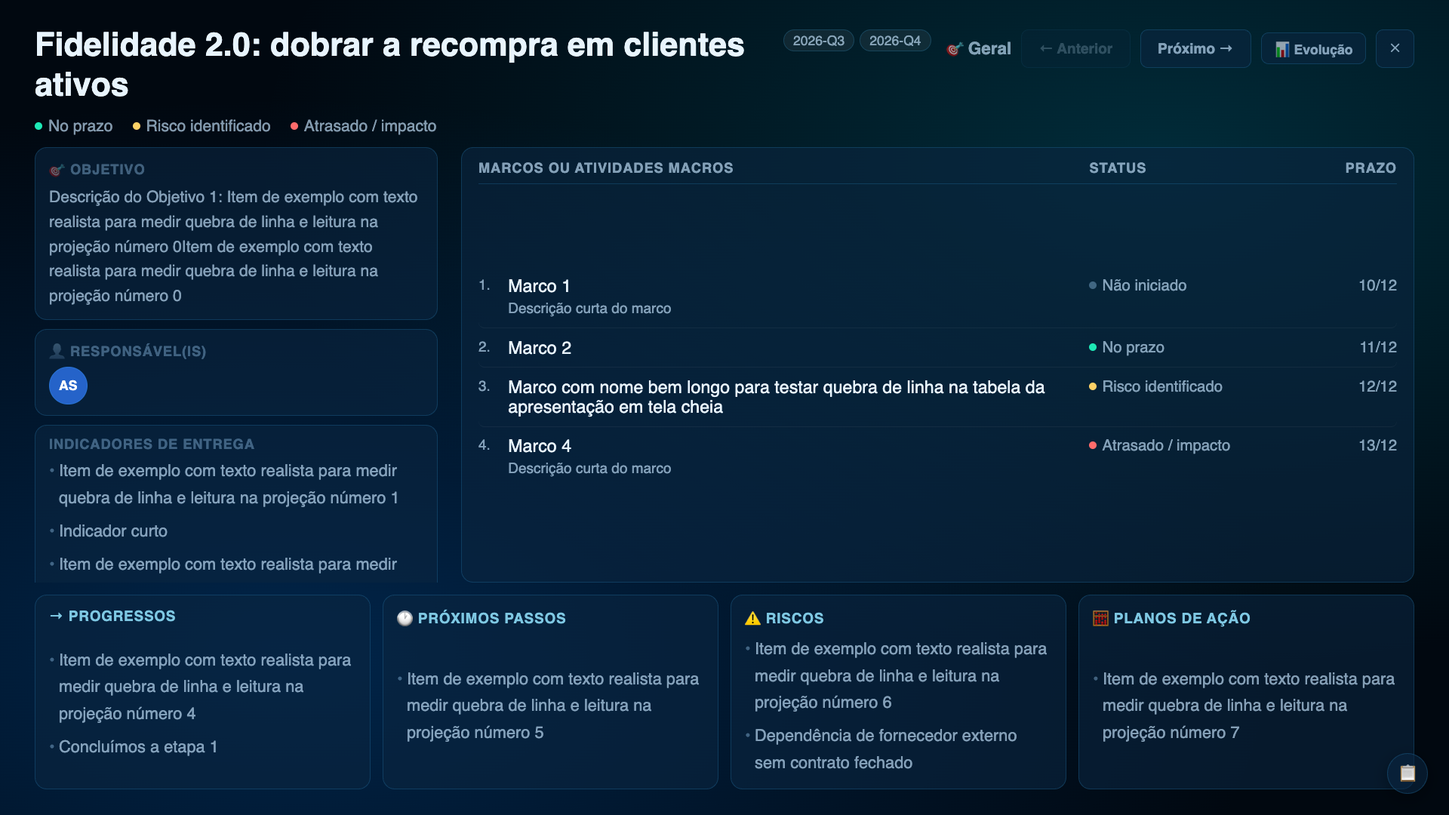
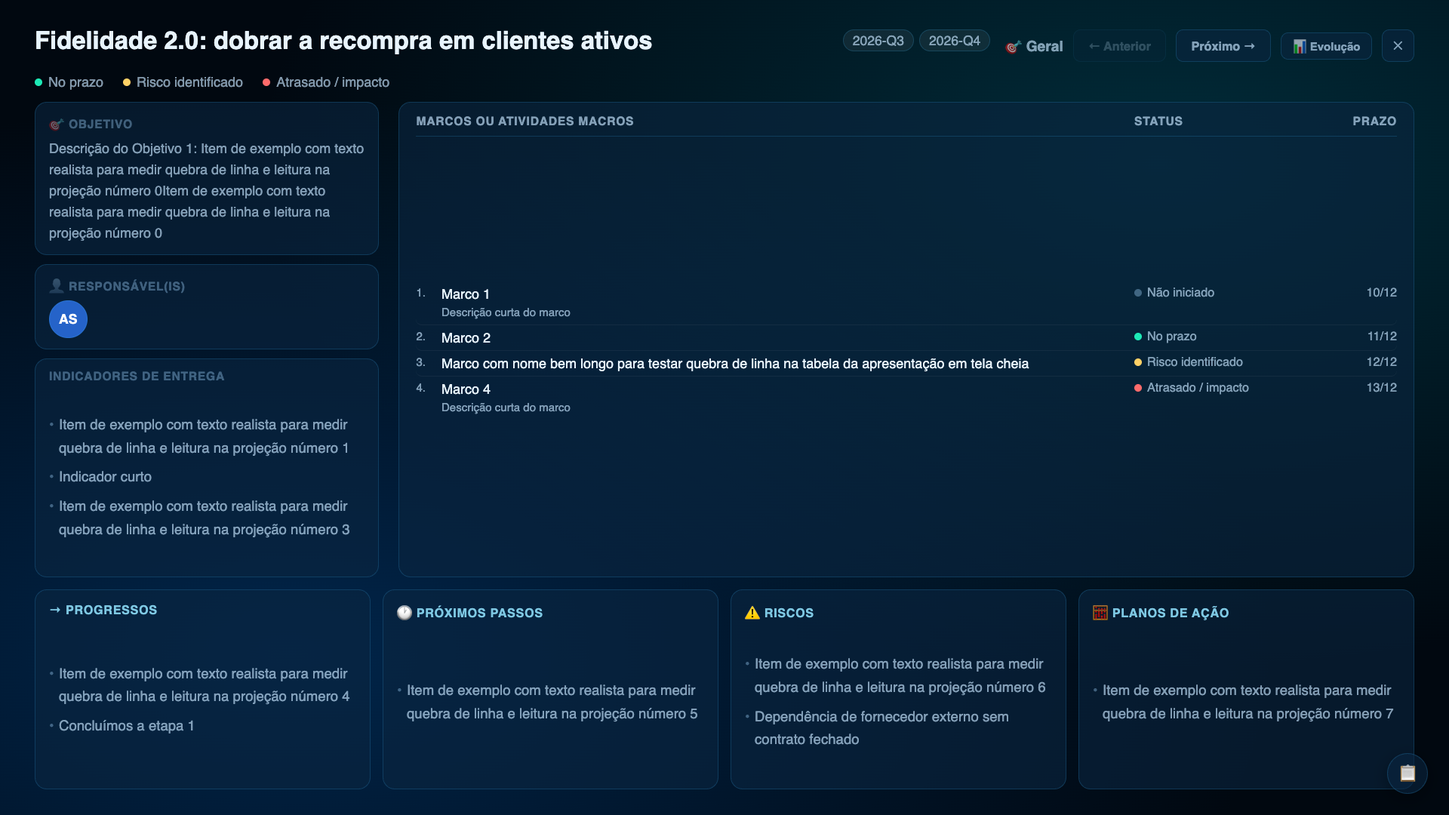
Apresentação do Radar: corrige regressões apontadas na revisão (detalhe sem rolagem, ao vivo sem animação infinita, gerência cheia compacta)
- detalhe usa unidade própria --ud (mais contida): em Full HD nada fica atrás de rolagem, como na main
- anel da pílula ao vivo pulsa 3x e para (animação infinita mantinha 60 quadros/s ao vivo)
- gerência com 6+ Objetivos em modo compacto (4 colunas), texto >= main em 3/10/14
- teste e medições cobrem sessão ao vivo, estouro interno e gerência cheia

Agent: claude

diff --git a/okr-apresentacao.slide.html b/okr-apresentacao.slide.html
@@ -15,6 +15,7 @@
   --blue:#2563c9; --accent:#38b6ff; --cyan:#7ec8e3; --teal:#1de9b6;
   --txt:#e8f4fd; --txt2:rgba(200,230,255,0.65); --txt3:rgba(150,200,240,0.4);
   --warn:#ffd166; --danger:#ff6b6b;
+  --ud:clamp(1px,.0625vw,1.2px);   /* mesma ideia, mais contida: o detalhe do Objetivo é denso (raia + marcos + 4 colunas) e precisa caber SEM rolagem */
   --u:clamp(1px,.0732vw,1.5px);   /* unidade de tela: 1px em notebook, ~1,4px em Full HD, teto 1,5px — todo tamanho de leitura usa calc(N*var(--u)) */
 }
 *{margin:0;padding:0;box-sizing:border-box;}
@@ -216,6 +217,15 @@ h1,h2,h3,.syne{font-family:'Syne',sans-serif;}
 .obj-tags{display:flex;flex-wrap:wrap;gap:7px;margin-bottom:calc(14*var(--u));}
 .tag-chip{font-size:calc(13.5*var(--u));border-radius:999px;padding:3px 14px;border:1px solid;}
 .obj-bottom{display:flex;justify-content:flex-end;margin-top:auto;padding-top:calc(6*var(--u));}
+/* Gerência cheia (6+ Objetivos): 4 colunas e cartão enxuto — sem isso a página encolhe tudo para caber e o texto fica menor que antes. */
+.obj-grid.denso{grid-template-columns:repeat(auto-fill,minmax(calc(270*var(--u)),1fr));gap:calc(14*var(--u));}
+.obj-grid.denso .obj-card{padding:calc(12*var(--u)) calc(16*var(--u));border-radius:calc(16*var(--u));}
+.obj-grid.denso .obj-top{margin-bottom:calc(7*var(--u));}
+.obj-grid.denso .obj-title{font-size:calc(21*var(--u));}
+.obj-grid.denso .prog-row{margin:calc(6*var(--u)) 0 calc(5*var(--u));gap:calc(12*var(--u));}
+.obj-grid.denso .prog-pct{font-size:calc(30*var(--u));min-width:calc(68*var(--u));}
+.obj-grid.denso .obj-tags{margin-bottom:calc(6*var(--u));}
+.obj-grid.denso .avatar{width:calc(30*var(--u));height:calc(30*var(--u));font-size:calc(11.5*var(--u));}
 .avatar{width:calc(36*var(--u));height:calc(36*var(--u));border-radius:50%;border:1px solid var(--glass-b);background:var(--blue);
   display:flex;align-items:center;justify-content:center;font-size:calc(12.5*var(--u));font-weight:700;color:#fff;margin-left:-9px;overflow:hidden;}
 .avatar:first-child{margin-left:0;}
@@ -266,13 +276,13 @@ h1,h2,h3,.syne{font-family:'Syne',sans-serif;}
 /* Header em grid real (não position:fixed) — título, trimestre e marca/fechar
    nunca se sobrepõem porque cada um tem sua própria coluna garantida. */
 .d2-header{display:grid;grid-template-columns:1fr auto auto;align-items:start;gap:20px;flex-shrink:0;}
-.d2-title{font-family:'Syne',sans-serif;font-weight:800;font-size:clamp(1.4rem,2.5vw,2.7rem);line-height:1.22;
+.d2-title{font-family:'Syne',sans-serif;font-weight:800;font-size:clamp(1.4rem,2.2vw,2.05rem);line-height:1.22;
   min-width:0;overflow-wrap:break-word;}
-.d2-trim{display:flex;gap:7px;flex-wrap:wrap;align-content:flex-start;justify-content:flex-end;padding-top:5px;max-width:calc(210*var(--u));}
+.d2-trim{display:flex;gap:7px;flex-wrap:wrap;align-content:flex-start;justify-content:flex-end;padding-top:5px;max-width:calc(210*var(--ud));}
 .d2-brand-row{display:flex;align-items:center;gap:13px;padding-top:5px;}
-.d2-brand{font-family:'Syne',sans-serif;font-weight:800;font-size:calc(16*var(--u));color:var(--txt2);white-space:nowrap;
+.d2-brand{font-family:'Syne',sans-serif;font-weight:800;font-size:calc(16*var(--ud));color:var(--txt2);white-space:nowrap;
   display:flex;align-items:center;gap:8px;}
-.detail-close{background:var(--glass);border:1px solid var(--glass-b);border-radius:10px;width:calc(36*var(--u));height:calc(36*var(--u));
+.detail-close{background:var(--glass);border:1px solid var(--glass-b);border-radius:10px;width:calc(36*var(--ud));height:calc(36*var(--ud));
   color:var(--txt2);font-size:16px;cursor:pointer;flex-shrink:0;}
 .detail-close:hover{background:var(--glass-hover);}
 /* Botão de avançar pro próximo Objetivo DENTRO da mesma gerência (pedido
@@ -280,14 +290,14 @@ h1,h2,h3,.syne{font-family:'Syne',sans-serif;}
    gerencia" — nunca cruza pra outra gerência sozinho). Fica desabilitado no
    último Objetivo da gerência em vez de sumir, pra deixar claro que acabou
    (em vez de parecer que travou). */
-.detail-next{background:var(--glass);border:1px solid var(--glass-b);border-radius:10px;height:calc(36*var(--u));padding:0 calc(16*var(--u));
-  color:var(--txt2);font-size:calc(13.5*var(--u));font-weight:700;cursor:pointer;flex-shrink:0;white-space:nowrap;
+.detail-next{background:var(--glass);border:1px solid var(--glass-b);border-radius:10px;height:calc(36*var(--ud));padding:0 calc(16*var(--ud));
+  color:var(--txt2);font-size:calc(13.5*var(--ud));font-weight:700;cursor:pointer;flex-shrink:0;white-space:nowrap;
   display:flex;align-items:center;gap:6px;font-family:'DM Sans',sans-serif;}
 .detail-next:hover{background:var(--glass-hover);}
 .detail-next:disabled{opacity:.35;cursor:default;}
 .detail-next:disabled:hover{background:var(--glass);}
 
-.d2-legend{display:flex;gap:26px;flex-wrap:wrap;font-size:calc(15*var(--u));color:var(--txt2);flex-shrink:0;}
+.d2-legend{display:flex;gap:26px;flex-wrap:wrap;font-size:calc(15*var(--ud));color:var(--txt2);flex-shrink:0;}
 .d2-legend span{display:flex;align-items:center;gap:8px;}
 
 /* Corpo: rail (Objetivo/Responsável/Indicadores) + tabela de Marcos. Altura
@@ -310,7 +320,7 @@ h1,h2,h3,.syne{font-family:'Syne',sans-serif;}
    em vez de silenciar o corte (que era o bug original, antes de existir
    qualquer mecanismo de fit), cada seção internamente comprimida se
    ajusta sozinha via _okrFitDetailSections(). */
-.d2-body{flex:1 1 auto;min-height:0;display:grid;grid-template-columns:calc(380*var(--u)) 1.5fr;gap:calc(22*var(--u));}
+.d2-body{flex:1 1 auto;min-height:0;display:grid;grid-template-columns:calc(380*var(--ud)) 1.5fr;gap:calc(22*var(--ud));}
 .d2-left{display:flex;flex-direction:column;gap:12px;min-height:0;overflow-y:auto;}
 /* 2026-10-06 (pedido direto: "se o texto passar da área, em vez de diminuir a letra, prefiro que tenha scroll"): Marcos, rodapé e raia da
    esquerda NÃO encolhem mais a fonte — mantêm o tamanho e rolam quando não cabem. Itens da raia não podem ser espremidos (flex-shrink:0);
@@ -328,26 +338,26 @@ h1,h2,h3,.syne{font-family:'Syne',sans-serif;}
    mínimo real na conta do layout, e _okrFitDetailSections() consegue medir e
    encolher a fonte certinho quando precisa. */
 .d2-panel.grow{flex:1 0 auto;display:flex;flex-direction:column;}
-.d2-panel-label{font-size:calc(13*var(--u));text-transform:uppercase;letter-spacing:.05em;color:var(--txt3);font-weight:700;margin-bottom:7px;flex-shrink:0;}
-.d2-panel-body{font-size:calc(15*var(--u));color:var(--txt2);line-height:1.55;}
+.d2-panel-label{font-size:calc(13*var(--ud));text-transform:uppercase;letter-spacing:.05em;color:var(--txt3);font-weight:700;margin-bottom:7px;flex-shrink:0;}
+.d2-panel-body{font-size:calc(15*var(--ud));color:var(--txt2);line-height:1.55;}
 
 /* Mesmo motivo do .d2-panel.grow acima. */
 .d2-right{background:var(--glass);border:1px solid var(--glass-b);border-radius:16px;padding:16px 22px;
   display:flex;flex-direction:column;min-height:0;}
-.d2-table-header{display:flex;font-size:calc(13*var(--u));text-transform:uppercase;letter-spacing:.05em;color:var(--txt2);
+.d2-table-header{display:flex;font-size:calc(13*var(--ud));text-transform:uppercase;letter-spacing:.05em;color:var(--txt2);
   font-weight:700;padding-bottom:10px;border-bottom:1px solid var(--glass-b);flex-shrink:0;}
 .d2-table-header .c-nome{flex:1;}
-.d2-table-header .c-status{width:calc(190*var(--u));}
-.d2-table-header .c-prazo{width:calc(100*var(--u));text-align:right;}
+.d2-table-header .c-status{width:calc(190*var(--ud));}
+.d2-table-header .c-prazo{width:calc(100*var(--ud));text-align:right;}
 /* Rola quando não cabe. Centralizar com `justify-content:center` cortaria o topo de um conteúdo mais alto que a área (não dá pra rolar pra cima do
    início); as margens automáticas nas pontas centralizam só quando SOBRA espaço. */
 .d2-table-rows{flex:1;min-height:0;display:flex;flex-direction:column;overflow-y:auto;overscroll-behavior:contain;}
 .d2-table-rows > :first-child{margin-top:auto;}
 .d2-table-rows > :last-child{margin-bottom:auto;}
-.d2-marco-row{display:flex;align-items:flex-start;padding:calc(9*var(--u)) 0;border-bottom:1px solid rgba(255,255,255,.05);font-size:calc(16.5*var(--u));cursor:pointer;border-radius:8px;transition:background .15s;}
+.d2-marco-row{display:flex;align-items:flex-start;padding:calc(5*var(--ud)) 0;border-bottom:1px solid rgba(255,255,255,.05);font-size:calc(15*var(--ud));cursor:pointer;border-radius:8px;transition:background .15s;}
 .d2-marco-row:last-child{border-bottom:none;}
 .d2-marco-row:hover{background:rgba(255,255,255,.05);}
-.d2-marco-num{width:calc(28*var(--u));color:var(--txt2);font-size:calc(13.5*var(--u));flex-shrink:0;}
+.d2-marco-num{width:calc(28*var(--ud));color:var(--txt2);font-size:calc(12.5*var(--ud));flex-shrink:0;}
 /* Nome do marco agora QUEBRA em várias linhas em vez de cortar (pedido direto
    do usuário, 2026-09-10: "a parte de marcos nao ta respeitando o limite
    lateral! vale quebrar o texto se ultrapassar a linha" — troca deliberada
@@ -362,9 +372,9 @@ h1,h2,h3,.syne{font-family:'Syne',sans-serif;}
    conteúdo nesta tela. */
 .d2-marco-main{flex:1;min-width:0;display:flex;flex-direction:column;gap:3px;padding-right:10px;}
 .d2-marco-nome{color:var(--txt);white-space:normal;overflow-wrap:break-word;}
-.d2-marco-desc{color:var(--txt2);font-size:calc(13.5*var(--u));line-height:1.4;white-space:normal;overflow-wrap:break-word;}
-.d2-marco-status{width:calc(190*var(--u));display:flex;align-items:center;gap:7px;font-size:calc(14.5*var(--u));color:var(--txt2);flex-shrink:0;}
-.d2-marco-prazo{width:calc(100*var(--u));text-align:right;font-size:calc(14.5*var(--u));color:var(--txt2);flex-shrink:0;}
+.d2-marco-desc{color:var(--txt2);font-size:calc(12.5*var(--ud));line-height:1.4;white-space:normal;overflow-wrap:break-word;}
+.d2-marco-status{width:calc(190*var(--ud));display:flex;align-items:center;gap:7px;font-size:calc(13.5*var(--ud));color:var(--txt2);flex-shrink:0;}
+.d2-marco-prazo{width:calc(100*var(--ud));text-align:right;font-size:calc(13.5*var(--ud));color:var(--txt2);flex-shrink:0;}
 
 /* Tira de 4 colunas — Progressos/Próximos Passos/Riscos/Planos de Ação, na
    MESMA tela do Objetivo (nunca uma 2ª tela — pedido direto: "é importante
@@ -394,7 +404,7 @@ h1,h2,h3,.syne{font-family:'Syne',sans-serif;}
    _okrFitDetailSections() ter a chance de medir/reagir. */
 .d2-fcol{background:var(--glass);border:1px solid var(--glass-b);border-radius:16px;padding:16px 18px;
   display:flex;flex-direction:column;}
-.d2-fcol h4{font-size:calc(13.5*var(--u));text-transform:uppercase;letter-spacing:.04em;color:var(--cyan);margin-bottom:8px;
+.d2-fcol h4{font-size:calc(13.5*var(--ud));text-transform:uppercase;letter-spacing:.04em;color:var(--cyan);margin-bottom:8px;
   display:flex;align-items:center;gap:7px;flex-shrink:0;}
 /* min-height:0 é o que permite _okrFitDetailSections() medir o espaço de
    verdade disponível pra essa lista: sem ele, o item de flex nunca é
@@ -405,13 +415,13 @@ h1,h2,h3,.syne{font-family:'Syne',sans-serif;}
    real, print do usuário: "Indicadores de Entrega" com 6 itens perdendo o
    último item, escondido fora da borda do card, sem nenhum overflow:hidden
    pra sequer escondê-lo — só ficava fora de vista). */
-.d2-flist{list-style:none;font-size:calc(15.5*var(--u));color:var(--txt2);line-height:1.65;margin:0;padding:0;
+.d2-flist{list-style:none;font-size:calc(15.5*var(--ud));color:var(--txt2);line-height:1.65;margin:0;padding:0;
   flex:1;min-height:0;display:flex;flex-direction:column;gap:8px;overflow-y:auto;overscroll-behavior:contain;}
 .d2-flist > :first-child{margin-top:auto;}
 .d2-flist > :last-child{margin-bottom:auto;}
 .d2-flist li{padding-left:13px;position:relative;}
 .d2-flist li::before{content:'•';position:absolute;left:0;color:var(--txt3);}
-.d2-empty{font-size:calc(14.5*var(--u));color:var(--txt2);font-style:italic;}
+.d2-empty{font-size:calc(14.5*var(--ud));color:var(--txt2);font-style:italic;}
 
 ::-webkit-scrollbar{width:8px;}
 ::-webkit-scrollbar-thumb{background:rgba(255,255,255,.15);border-radius:8px;}
@@ -542,7 +552,7 @@ body.live-ativa .tb-live,body.live-host .tb-live{display:none;}   /* com a apres
 .tb-mid{min-width:0;}
 .live-pill{display:inline-flex;align-items:center;gap:6px;font-size:11px;font-weight:700;padding:5px 10px;border-radius:99px;background:rgba(255,77,77,.14);border:1px solid rgba(255,77,77,.45);color:#ff8a8a;white-space:nowrap;}
 .live-pill i{position:relative;width:7px;height:7px;border-radius:50%;background:#ff4d4d;}
-.live-pill i::after{content:'';position:absolute;inset:0;border-radius:50%;background:#ff4d4d;opacity:0;animation:liveAnel 1.8s ease-out infinite;will-change:transform,opacity;}
+.live-pill i::after{content:'';position:absolute;inset:0;border-radius:50%;background:#ff4d4d;opacity:0;animation:liveAnel 1.8s ease-out 3;}   /* 3 pulsos ao entrar na sala e para: animação infinita mantém 60 quadros/s com a página parada */
 @keyframes liveAnel{0%{transform:scale(1);opacity:.55}100%{transform:scale(2.8);opacity:0}}
 @media (prefers-reduced-motion:reduce){.live-pill i::after{animation:none;}.slide{transition:none !important;}}
 .live-btn.on{border-color:var(--accent);background:rgba(56,182,255,.2);}
@@ -1279,7 +1289,7 @@ function buildSlides(){
         list.push({key:'ger:'+gr.key, title:gr.rotulo, torre:t.id, html:`
           <div class="slide-inner t-${t.id}">
             <div class="ger-header com-torre"><span class="ico">${g.icon}</span><h2>${esc(g.label)}</h2><span class="torre-chip">${t.icon?t.icon+' ':''}${esc(t.label)}</span><span class="ger-count">${lista.length} objetivo${lista.length>1?'s':''}</span></div>
-            <div class="obj-grid">${lista.map(o=>objCardHtml(o)).join('')}</div>
+            <div class="obj-grid${lista.length>=6?' denso':''}">${lista.map(o=>objCardHtml(o)).join('')}</div>
           </div>`});
       });
     });
@@ -1632,10 +1642,10 @@ window._okrOpenDetail = id => {
         <div class="d2-trim">${_okrTrimestresOf(o).map(t=>`<span class="pill">${esc(t)}</span>`).join('')}</div>
         <div class="d2-brand-row">
           <div class="d2-brand">🎯 ${esc(okrGerenciaLabel(o.areaId, _okrTorreDe(o)))}</div>
-          ${marcos.some(m=>m.progresso==='concluido')?`<button class="detail-next" style="height:calc(30*var(--u));padding:0 calc(12*var(--u));font-size:calc(12.5*var(--u));" onclick="window._okrToggleColapsarConcluidos()" title="Não muda a contagem de progresso — só esconde a linha nesta tela">${_okrColapsarConcluidos?'▾ Mostrar concluídos':'▴ Colapsar concluídos'}</button>`:''}
+          ${marcos.some(m=>m.progresso==='concluido')?`<button class="detail-next" style="height:calc(30*var(--ud));padding:0 calc(12*var(--ud));font-size:calc(12.5*var(--ud));" onclick="window._okrToggleColapsarConcluidos()" title="Não muda a contagem de progresso — só esconde a linha nesta tela">${_okrColapsarConcluidos?'▾ Mostrar concluídos':'▴ Colapsar concluídos'}</button>`:''}
           <button class="detail-next" ${prevObj?`onclick="window._okrOpenDetail(${jsq(prevObj.id)})" title="Objetivo anterior de ${esc(okrGerenciaLabel(o.areaId, _okrTorreDe(o)))}"`:`disabled title="Primeiro objetivo de ${esc(okrGerenciaLabel(o.areaId, _okrTorreDe(o)))}"`}>← Anterior</button>
           <button class="detail-next" ${nextObj?`onclick="window._okrOpenDetail(${jsq(nextObj.id)})" title="Próximo objetivo de ${esc(okrGerenciaLabel(o.areaId, _okrTorreDe(o)))}"`:`disabled title="Último objetivo de ${esc(okrGerenciaLabel(o.areaId, _okrTorreDe(o)))} — feche e abra o próximo pela grade da gerência seguinte"`}>Próximo →</button>
-          ${_okrAtingPctObj(o)!==null?`<button class="detail-next" style="height:calc(30*var(--u));padding:0 calc(12*var(--u));font-size:calc(12.5*var(--u));" onclick="window._okrOpenAting(${jsq(id)})" title="Evolução do atingimento — gráfico com data e valor">${_okrAtingTipoIco(o.atingimento.tipo)} Evolução</button>`:''}
+          ${_okrAtingPctObj(o)!==null?`<button class="detail-next" style="height:calc(30*var(--ud));padding:0 calc(12*var(--ud));font-size:calc(12.5*var(--ud));" onclick="window._okrOpenAting(${jsq(id)})" title="Evolução do atingimento — gráfico com data e valor">${_okrAtingTipoIco(o.atingimento.tipo)} Evolução</button>`:''}
           <button class="detail-close" onclick="window._okrCloseDetail()">✕</button>
         </div>
       </div>

diff --git a/docs/arezzo/testes/test_apresentacao_ui.js b/docs/arezzo/testes/test_apresentacao_ui.js
@@ -12,6 +12,9 @@ const { chromium } = require(process.env.PW_MODULE || '/opt/node22/lib/node_modu
     t(tag + 'nenhum slide estoura a largura (capa, torre, gerências, resumo)', !lateral.length, lateral);
     const latDet = []; for (const id of ['o0', 'o3', 'o5']) { await p.evaluate(id => window._okrOpenDetail(id), id); await p.waitForTimeout(500); const r = await p.evaluate(() => { const d = document.documentElement, m = document.querySelector('.d2-wrap').getBoundingClientRect(); return { doc: d.scrollWidth - d.clientWidth, dir: Math.round(m.right - innerWidth), baixo: Math.round(m.bottom - innerHeight) }; }); if (r.doc > 1 || r.dir > 1 || r.baixo > 1) latDet.push([id, r]); }
     t(tag + 'detalhe do Objetivo (curto, 14 marcos, título enorme) cabe na tela', !latDet.length, latDet);
+    // 1b) nada escondido atrás de barra de rolagem no detalhe comum e no de 14 marcos (em Full HD a main também cabe tudo)
+    if (w >= 1900) { const rol = []; for (const id of ['o0', 'o1', 'o3']) { await p.evaluate(id => window._okrOpenDetail(id), id); await p.waitForTimeout(450); const r = await p.evaluate(() => [...document.querySelectorAll('.d2-left,.d2-table-rows,.d2-flist')].filter(e => e.scrollHeight > e.clientHeight + 1).map(e => e.className)); if (r.length) rol.push([id, r]); }
+      t(tag + 'detalhe: nenhum conteúdo escondido atrás de rolagem (raia, marcos, listas)', !rol.length, rol); }
     // 2) fluidez: nada animando para sempre quando ninguém está ao vivo, e sem desfoque nas superfícies fixas
     await p.evaluate(() => { window._okrCloseDetail(); window._okrGoTo(2); }); await p.waitForTimeout(700);
     const infinitas = await p.evaluate(() => document.getAnimations().filter(a => a.effect && a.effect.getComputedTiming().iterations === Infinity).map(a => (a.effect.target && a.effect.target.className) || '?'));
@@ -24,7 +27,7 @@ const { chromium } = require(process.env.PW_MODULE || '/opt/node22/lib/node_modu
     t(tag + `texto legível no cartão ${JSON.stringify(f)}`, f.rotulo >= minLeit.rotulo && f.pct >= minLeit.pct && f.titulo >= minLeit.titulo && f.chip >= minLeit.chip, [f, minLeit]);
     await p.evaluate(() => window._okrOpenDetail('o0')); await p.waitForTimeout(500);
     const d = await p.evaluate(() => { const px = s => { const e = document.querySelector(s); return e ? parseFloat(getComputedStyle(e).fontSize) : 0; }; return { marco: px('.d2-marco-row'), lista: px('.d2-flist'), corpo: px('.d2-panel-body') }; });
-    t(tag + `texto legível no detalhe ${JSON.stringify(d)}`, w >= 1900 ? (d.marco >= 21 && d.lista >= 20) : (d.marco >= 15 && d.lista >= 14), d);
+    t(tag + `texto legível no detalhe ${JSON.stringify(d)}`, w >= 1900 ? (d.marco >= 17 && d.lista >= 18) : (d.marco >= 15 && d.lista >= 15), d);   // main: marco 15px, lista 14px em qualquer tela
     // 4) acabamento: sem faixa lateral grossa no cartão; selo de status é um (cor + texto) e não quebra em 2 linhas
     await p.evaluate(() => { window._okrCloseDetail(); window._okrGoTo(2); }); await p.waitForTimeout(600);
     const ac = await p.evaluate(() => { const c = document.querySelector('.slide.active .obj-card'); const cs = getComputedStyle(c); const chip = c.querySelector('.status-chip'); return { borda: parseFloat(cs.borderLeftWidth), chipH: Math.round(chip.getBoundingClientRect().height), fonte: parseFloat(getComputedStyle(chip).fontSize) }; });
@@ -33,8 +36,18 @@ const { chromium } = require(process.env.PW_MODULE || '/opt/node22/lib/node_modu
     const xss = await p.evaluate(() => ({ img: !!document.querySelector('#slides img[src="x"], #detail-modal img[src="x"]'), flag: window.__xss || 0 }));
     t(tag + 'HTML no título aparece como texto (sem <img> injetado)', !xss.img && !xss.flag, xss);
     t(tag + 'sem erro de JS', !errs.length, errs); await ctx.close(); }
-  // 6) com a apresentação ao vivo de verdade, o anel pulsa (único movimento permitido) e só com transform/opacity
-  { const ctx = await b.newContext({ viewport: { width: 1366, height: 768 } }); await fake.install(ctx, JSON.parse(JSON.stringify(dados))); const p = await ctx.newPage(); await p.goto('http://localhost:8941/okr-apresentacao.slide.html'); await p.waitForFunction(() => !!window.__authCb); await p.evaluate(x => window.__authCb(x), { uid: 'ana', email: 'ana@ciahering.com.br', displayName: 'Ana', photoURL: '', providerData: [{ providerId: 'google.com' }] }); await p.waitForTimeout(1800);
+  // 6) sessão "Apresentar ao vivo" ligada (o cenário de quem apresenta): depois dos 3 pulsos de entrada, nada anima para sempre
+  { const ctx = await b.newContext({ viewport: { width: 1366, height: 768 } }); await fake.install(ctx, JSON.parse(JSON.stringify(dados))); const p = await ctx.newPage(); p.on('dialog', d => d.accept()); await p.goto('http://localhost:8941/okr-apresentacao.slide.html'); await p.waitForFunction(() => !!window.__authCb); await p.evaluate(x => window.__authCb(x), { uid: 'ana', email: 'ana@ciahering.com.br', displayName: 'Ana', photoURL: '', providerData: [{ providerId: 'google.com' }] }); await p.waitForTimeout(1800);
+    await p.click('#live-box button'); await p.waitForTimeout(6800);
+    const pulsa = await p.evaluate(() => /Você está apresentando/.test(document.getElementById('live-box').textContent));
+    const inf = await p.evaluate(() => document.getAnimations().filter(a => a.effect && a.effect.getComputedTiming().iterations === Infinity).map(a => (a.effect.target && a.effect.target.className) || '?'));
     const css = await p.evaluate(() => { const r = [...document.styleSheets].flatMap(s => [...s.cssRules]).find(x => x.name === 'liveAnel'); return r ? r.cssText : ''; });
+    t('ao vivo ligado (apresentador): sem animação infinita (60 quadros/s com a página parada)', pulsa && !inf.length, { pulsa, inf });
     t('anel do "ao vivo" anima só transform/opacity (compositor, sem repintar)', /transform/.test(css) && /opacity/.test(css) && !/box-shadow/.test(css), css); await ctx.close(); }
+  // 7) gerência cheia (10 Objetivos): o ajuste automático não pode deixar o texto menor que na versão anterior (main: 12 px a 1366, 18 px a 1920 de altura de glifo)
+  for (const [w, h, min] of [[1366, 768, 12], [1920, 1080, 18]]) { const d = JSON.parse(JSON.stringify(dados)); const o = d.kanban.okr.objetivos; for (let i = 0; i < 10; i++) o['x' + i] = { ...o.o0, id: 'x' + i, titulo: 'Objetivo extra número ' + i + ' com título médio para ocupar linha', areaId: 'tech' }; Object.keys(o).forEach(k => { if (!k.startsWith('x') && o[k].areaId === 'tech') o[k].areaId = 'cx'; });
+    const ctx = await b.newContext({ viewport: { width: w, height: h } }); await fake.install(ctx, d); const p = await ctx.newPage(); await p.goto('http://localhost:8941/okr-apresentacao.slide.html'); await p.waitForFunction(() => !!window.__authCb); await p.evaluate(x => window.__authCb(x), { uid: 'ana', email: 'ana@ciahering.com.br', displayName: 'Ana', photoURL: '', providerData: [{ providerId: 'google.com' }] }); await p.waitForTimeout(1500);
+    await p.evaluate(() => window._okrGoTo(slides.findIndex(s => s.key.endsWith(':tech')))); await p.waitForTimeout(700);
+    const r = await p.evaluate(() => { const t = document.querySelector('.slide.active .obj-title'); const rg = document.createRange(); rg.setStart(t.firstChild, 0); rg.setEnd(t.firstChild, 4); return { glifo: Math.round(rg.getBoundingClientRect().height), denso: !!document.querySelector('.slide.active .obj-grid.denso'), n: document.querySelectorAll('.slide.active .obj-card').length }; });
+    t(`[${w}px] gerência com 10 Objetivos: modo compacto e texto renderizado >= ${min}px (${JSON.stringify(r)})`, r.denso && r.n === 10 && r.glifo >= min, r); await ctx.close(); }
   await b.close(); console.log(ok ? 'TUDO OK' : 'HÁ FALHAS'); process.exit(ok ? 0 : 1); })();

diff --git a/docs/arezzo/testes/perf_apresentacao.js b/docs/arezzo/testes/perf_apresentacao.js
@@ -5,6 +5,7 @@ const { chromium } = require(process.env.PW_MODULE || '/opt/node22/lib/node_modu
 const DPR = Number(process.argv[3] || 2);
 (async () => { const b = await chromium.launch({ executablePath: process.env.CHROME_PATH || '/opt/pw-browsers/chromium-1194/chrome-linux/chrome', args: ['--no-sandbox'] });
   const ctx = await b.newContext({ viewport: { width: 1920, height: 1080 }, deviceScaleFactor: DPR }); await fake.install(ctx, seed()); const p = await ctx.newPage();
+  if (process.env.PAGINA_ALT) { const corpo = require('fs').readFileSync(process.env.PAGINA_ALT, 'utf8'); await p.route('**/okr-apresentacao.slide.html*', r => r.fulfill({ status: 200, contentType: 'text/html; charset=utf-8', body: corpo })); }   // compara com outra versão da página sem trocar arquivo
   await p.goto('http://localhost:8941/okr-apresentacao.slide.html'); await p.waitForFunction(() => !!window.__authCb); await p.evaluate(x => window.__authCb(x), { uid: 'ana', email: 'ana@ciahering.com.br', displayName: 'Ana', photoURL: '', providerData: [{ providerId: 'google.com' }] }); await p.waitForTimeout(2000);
   const medir = (ms, acao) => p.evaluate(async ([ms, acao]) => { const dts = []; let ult = performance.now(), fim = ult + ms, k = 0; const f = window.eval(acao);
     await new Promise(res => { const tick = (t) => { dts.push(t - ult); ult = t; if (f && (k++ % 40 === 0)) f(); if (t < fim) requestAnimationFrame(tick); else res(); }; requestAnimationFrame(tick); });
@@ -23,4 +24,11 @@ const DPR = Number(process.argv[3] || 2);
   R['trocando de slide'] = await janela(4000, '(()=>{ let i=1; return ()=>{ window._okrGoTo(i=(i+1)%8); }; })()');
   await p.evaluate(() => { window._okrGoTo(2); window._okrOpenDetail('o0'); }); await p.waitForTimeout(1200);
   R['detalhe aberto'] = await janela(3000, 'null');
+  // Cenário real de quem apresenta: sessão "Apresentar ao vivo" ligada (apresentador), parado e com o laser seguindo o mouse.
+  await p.evaluate(() => { window._okrCloseDetail(); window._okrGoTo(2); }); await p.waitForTimeout(500);
+  p.on('dialog', d => d.accept()); await p.click('#live-box button'); await p.waitForTimeout(6500);   // espera os 3 pulsos de entrada acabarem
+  R['AO VIVO ligado, parado'] = await janela(3000, 'null');
+  await p.keyboard.press('l'); await p.mouse.move(400, 400);
+  const mexe = (async () => { for (let i = 0; i < 60; i++) { await p.mouse.move(400 + (i % 30) * 20, 400 + Math.sin(i) * 120); await p.waitForTimeout(50); } })();
+  R['AO VIVO + laser em movimento'] = await janela(3000, 'null'); await mexe;
   console.log(process.argv[2] || 'medida', 'dpr', DPR); console.table(R); await b.close(); })();

diff --git a/docs/arezzo/testes/medir_gerencia_pesada.js b/docs/arezzo/testes/medir_gerencia_pesada.js
@@ -1,0 +1,12 @@
+// Gerência com muitos Objetivos: o ajuste automático (fitSlideContent) pode encolher o texto. Mede a altura REAL renderizada do texto do título (após zoom/scale).
+// Uso: [PAGINA_ALT=/caminho/outra_versao.html] node medir_gerencia_pesada.js rótulo
+const { chromium } = require(process.env.PW_MODULE || '/opt/node22/lib/node_modules/playwright'); const fake = require('./fakefb.js'); const { seed } = require('./seed_apresentacao.js');
+(async () => { const b = await chromium.launch({ executablePath: process.env.CHROME_PATH || '/opt/pw-browsers/chromium-1194/chrome-linux/chrome', args: ['--no-sandbox'] }); const out = {};
+  for (const N of [3, 6, 10, 14]) for (const [w, h] of [[1366, 768], [1920, 1080]]) { const d = seed(); const o = d.kanban.okr.objetivos; for (let i = 0; i < N; i++) o['x' + i] = { ...o.o0, id: 'x' + i, titulo: 'Objetivo extra número ' + i + ' com título médio para ocupar linha', areaId: 'tech' }; Object.keys(o).forEach(k => { if (!k.startsWith('x') && o[k].areaId === 'tech') o[k].areaId = 'cx'; });
+    const ctx = await b.newContext({ viewport: { width: w, height: h } }); await fake.install(ctx, d); const p = await ctx.newPage();
+    if (process.env.PAGINA_ALT) { const corpo = require('fs').readFileSync(process.env.PAGINA_ALT, 'utf8'); await p.route('**/okr-apresentacao.slide.html*', r => r.fulfill({ status: 200, contentType: 'text/html; charset=utf-8', body: corpo })); }
+    await p.goto('http://localhost:8941/okr-apresentacao.slide.html'); await p.waitForFunction(() => !!window.__authCb); await p.evaluate(x => window.__authCb(x), { uid: 'ana', email: 'ana@ciahering.com.br', displayName: 'Ana', photoURL: '', providerData: [{ providerId: 'google.com' }] }); await p.waitForTimeout(1500);
+    await p.evaluate(() => { const i = slides.findIndex(s => s.key.endsWith(':tech')); window._okrGoTo(i); }); await p.waitForTimeout(700);
+    const r = await p.evaluate(() => { const t = document.querySelector('.slide.active .obj-title'); const rg = document.createRange(); rg.setStart(t.firstChild, 0); rg.setEnd(t.firstChild, 4); const rc = rg.getBoundingClientRect(); return { glifo: +rc.height.toFixed(1) }; });
+    out[N + 'obj@' + w] = r.glifo + 'px'; await ctx.close(); }
+  console.log(process.argv[2] || '', JSON.stringify(out)); await b.close(); })();

diff --git a/docs/arezzo/testes/medir_overflow_detalhe.js b/docs/arezzo/testes/medir_overflow_detalhe.js
@@ -1,0 +1,10 @@
+// Mede, por Objetivo do seed, quais áreas internas do detalhe rolam (conteúdo escondido atrás de barra de rolagem). Uso: node medir_overflow_detalhe.js [rótulo]
+const { chromium } = require(process.env.PW_MODULE || '/opt/node22/lib/node_modules/playwright'); const fake = require('./fakefb.js'); const { seed } = require('./seed_apresentacao.js');
+(async () => { const b = await chromium.launch({ executablePath: process.env.CHROME_PATH || '/opt/pw-browsers/chromium-1194/chrome-linux/chrome', args: ['--no-sandbox'] }); const out = {};
+  for (const [w, h] of [[1366, 768], [1920, 1080]]) { const ctx = await b.newContext({ viewport: { width: w, height: h } }); await fake.install(ctx, seed()); const p = await ctx.newPage();
+    await p.goto('http://localhost:8941/okr-apresentacao.slide.html'); await p.waitForFunction(() => !!window.__authCb); await p.evaluate(x => window.__authCb(x), { uid: 'ana', email: 'ana@ciahering.com.br', displayName: 'Ana', photoURL: '', providerData: [{ providerId: 'google.com' }] }); await p.waitForTimeout(1800);
+    const rol = [];
+    for (let i = 0; i < 14; i++) { await p.evaluate(id => window._okrOpenDetail(id), 'o' + i); await p.waitForTimeout(350);
+      const r = await p.evaluate(() => { const q = s => [...document.querySelectorAll(s)]; const r = []; q('.d2-left').forEach(e => { if (e.scrollHeight > e.clientHeight + 1) r.push('rail'); }); q('.d2-table-rows').forEach(e => { if (e.scrollHeight > e.clientHeight + 1) r.push('marcos'); }); q('.d2-flist').forEach(e => { if (e.scrollHeight > e.clientHeight + 1) r.push('lista'); }); return [...new Set(r)].join('+'); }); if (r) rol.push('o' + i + ':' + r); }
+    out[w] = rol.join(' ') || '(nenhum rola)'; await ctx.close(); }
+  console.log(process.argv[2] || '', JSON.stringify(out)); await b.close(); })();

diff --git a/CHANGELOG.md b/CHANGELOG.md
@@ -26,7 +26,7 @@ completo, incluindo commits antigos sem PR/descrição detalhada).
 
 ### Radar › Apresentação: leitura em tela cheia, visual Marine Glass e fluidez (okr-apresentacao.slide.html; sem par `-dev`: vai ao ar no merge) — 2026-11-06
 
-André relatou queda de fps ao apresentar. Causa medida: parada em qualquer slide a página desenhava 60 quadros/s (~190 ms de GPU por segundo) porque o pulso infinito do selo 'AO VIVO' ficava na topbar com backdrop-filter, e 19 superfícies (cartões, painéis, barras, scrims) desfocavam um fundo que é gradiente estático. Agora: pulso removido (o anel da sala ao vivo anima só transform/opacity), desfoque só nas gavetas e modais que abrem sobre o conteúdo; parada no slide cai para ~2 ms/s de GPU (1 quadro/s) e a troca de slide para ~1/3. Leitura: o deck usava ~65% da largura e texto de 12–15 px; ganhou a unidade --u (1px em notebook, ~1,4px em Full HD) em todos os tamanhos de leitura e largura de até 1740px. Acabamento: capa com um protagonista (total) + barra de status + números sem caixa em vez de 5 caixinhas iguais; cartões sem a faixa lateral colorida, selo de status (cor+texto) e percentual grande; ícone de gerência em placa; botão de atingimento do rosa para o azul da casa. Mantido: conteúdo centralizado nos painéis do detalhe (decisão antiga do Caio). Teste: docs/arezzo/testes/test_apresentacao_ui.js (falha 14× na main); medição: perf_apresentacao.js. Dica: não — redesenho de tela já usada. Fronteira: sem mudança (mesmos campos, todos via esc()).
+André relatou queda de fps ao apresentar. Causa medida: parada em qualquer slide a página desenhava 60 quadros/s (~190 ms de GPU por segundo) porque o pulso infinito do selo 'AO VIVO' ficava na topbar com backdrop-filter, e 15 das 19 superfícies com `backdrop-filter` (cartões, painéis, barras, véus de tela inteira) desfocavam um fundo que é gradiente estático. Agora: pulso removido (o anel da sala ao vivo anima só transform/opacity), desfoque só nas 4 gavetas/painéis que abrem sobre o conteúdo (os véus de tela inteira ficaram só escurecidos); com a sessão 'Apresentar ao vivo' ligada o anel pulsa 3 vezes ao entrar e para. Medido (tracing do Chromium, dpr 2): parada no slide ~199 → 2 ms/s de GPU (60 → 1 quadro/s); ao vivo parado ~215 → 4 ms/s; ao vivo com laser ~434 → 90 ms/s; troca de slide ~232 → ~85. Números de Chromium headless — peça ao André para confirmar na máquina dele. Leitura: o deck usava ~65% da largura e texto de 12–15 px; ganhou a unidade --u (1px em notebook, ~1,4px em Full HD) em todos os tamanhos de leitura e largura de até 1740px. Acabamento: capa com um protagonista (total) + barra de status + números sem caixa em vez de 5 caixinhas iguais; cartões sem a faixa lateral colorida, selo de status (cor+texto) e percentual grande; ícone de gerência em placa; botão de atingimento do rosa para o azul da casa. Gerência com 6+ Objetivos ganha modo compacto (4 colunas) para o ajuste automático não deixar o texto menor que antes (6 Objetivos em notebook 1366 px ficou ~2 px abaixo da versão anterior; 3, 10 e 14 ficaram maiores). Mantido: conteúdo centralizado nos painéis do detalhe (decisão antiga do Caio). Teste: docs/arezzo/testes/test_apresentacao_ui.js (falha 14× na main); medição: perf_apresentacao.js. Dica: não — redesenho de tela já usada. Fronteira: sem mudança (mesmos campos, todos via esc()).
 
 ### Maré › Descrição adicional: campo maior por padrão e que lembra o tamanho (kanban-dev v8.30.910-dev) — SÓ DEV — 2026-11-06
 

diff --git a/.claude/skills/melhoriauiux/SKILL.md b/.claude/skills/melhoriauiux/SKILL.md
@@ -107,7 +107,7 @@ Formato: data · tela · achados · versão. Consulte também `CHANGELOG.md` (bu
 - **2026-10-16 · Oceano:** plantão separado por audiência (usuário no Oceano, ADM no Painel); cartão da Meta alinhado pelo topo (oceano v1.48–v1.50). **Metas:** projeção como "volta fantasma" no anel e linha no gráfico (mare-metas v16).
 - **2026-10-23 · Travessia (inteira):** "cara de checkbox, tudo quadradão" → cantos grandes, pílulas, interruptor, hero, anel do farol, medidor do termômetro, Baú em cartões, Diário em linha do tempo, barra inferior no celular (travessia-dev, PR desta rodada; teste `test_travessia_ui.js`).
 - **2026-11-06 · Painel › Saúde dos cards:** lista plana sem hierarquia → fila de ação em 3 abas (precisam de você · restaurados · resolvidos), acordeão com causa/autor só se provado, Resolver / Resolver os antigos (marcador, nunca apaga) e bolinha de saúde do guardião (painel-dev v5.90).
-- **2026-11-06 · Radar › Apresentação (`okr-apresentacao.slide.html`):** queda de fps (pulso infinito + 19 `backdrop-filter` sobre fundo estático → 60 quadros/s parado; agora ~1) e leitura em Full HD (texto de 12–15 px em ~65% da largura → unidade `--u`), capa com protagonista, cartões sem faixa lateral. Medição: `perf_apresentacao.js` (tracing, não rAF); teste `test_apresentacao_ui.js`.
+- **2026-11-06 · Radar › Apresentação (`okr-apresentacao.slide.html`):** queda de fps (pulso infinito + `backdrop-filter` sobre fundo estático → 60 quadros/s parado; agora ~1, inclusive com a sessão ao vivo ligada) e leitura em Full HD (texto de 12–15 px em ~65% da largura → unidade `--u`), capa com protagonista, cartões sem faixa lateral. Medição: `perf_apresentacao.js` (tracing, não rAF); teste `test_apresentacao_ui.js`.
 - **2026-10-16 · Maré › Atalhos:** foco do botão "Definir" (bug) + combinações reservadas do navegador (v8.30.875-dev).
 
 Atualize esta seção a cada rodada nova (1–3 linhas: tela, achados, versão/PR).

diff --git a/docs/GUIA_UI_UX.md b/docs/GUIA_UI_UX.md
@@ -64,7 +64,7 @@ border-radius: var(--r) /* 10 */ ou var(--r2) /* 14 */;
 backdrop-filter: blur(8px);                /* botão, chip */
 /* card/painel 12–14px · modal/overlay 16–18px */
 ```
-**Desfoque só onde há o que desfocar:** sobre fundo **estático** (o gradiente do `.ocean`, o fundo opaco do detalhe) o `backdrop-filter` não muda a imagem e só custa GPU — vale em gaveta/modal que abre **por cima do conteúdo**. Cartão, barra e painel fixos usam o vidro translúcido **sem** blur. Na apresentação do Radar (06/11/2026) isso, mais um pulso infinito na topbar, fazia a página desenhar 60 quadros/s parada (~190 ms de GPU/s); sem eles, ~2 ms/s.
+**Desfoque só onde há o que desfocar:** sobre fundo **estático** (o gradiente do `.ocean`, o fundo opaco do detalhe) o `backdrop-filter` não muda a imagem e só custa GPU — vale no **painel** de gaveta/modal que abre **por cima do conteúdo**; o véu de tela inteira atrás dele só escurece (blur de tela cheia custa caro). Cartão, barra e painel fixos usam o vidro translúcido **sem** blur. Na apresentação do Radar (06/11/2026) isso, mais um pulso infinito na topbar, fazia a página desenhar 60 quadros/s parada (~190 ms de GPU/s); sem eles, ~2 ms/s.
 `backdrop-filter` custa GPU no celular: **não** empilhe vidro dentro de vidro dentro de vidro (card dentro de painel dentro de modal): o de dentro usa fundo translúcido **sem** blur.
 
 ### 2.4 Fundo, peixinhos e movimento

diff --git a/BUGS_E_CORRECOES.md b/BUGS_E_CORRECOES.md
@@ -79,6 +79,10 @@ Antes de alterar código compartilhado, queries do Firebase, fluxos de autentica
 
 ## 🐛 Histórico de Bugs e Correções
 
+### 2026-11-06 · Apresentação ao vivo: test_apresentacao_live.js falha na main (achado da rodada UI/UX de 06/11/2026)
+
+Achado de passagem, NÃO corrigido (fora do escopo da rodada; confirmado idêntico na main e na branch claude/apresentacao-radar-ui). Caso: 'fora da sincronização, o slide do apresentador NÃO puxa a pessoa' — depois de o acompanhante mexer nos slides (Eve em _okrGoTo(0)) e o apresentador ir ao slide 3, a página da Eve foi para o slide 3 (esperado: continuar no 0 com 'Voltar a seguir'). Pode ser o teste (chamar _okrGoTo por evaluate não conta como gesto da pessoa) ou regressão real do liveAposNavegar/liveAplicar — a investigar antes de a próxima rodada mexer na área ao vivo. Arquivo: okr-apresentacao.slide.html (liveAplicar/liveAposNavegar), docs/arezzo/testes/test_apresentacao_live.js.
+
 ### 2026-11-06 · Menção de card: a regex da busca por palavras (\\s+) não separava por espaço; buscar as palavras em outra ordem não achava
 
 • Origem: revisão do PR #1625 (Antigravity, "menção de cards com espaço e seleção por teclado"), já mergeado quando eu li. O diagnóstico dele estava certo e as duas correções funcionam (o `@card:` aceita espaço e Enter/Tab seleciona o card); sobrou uma regex.
